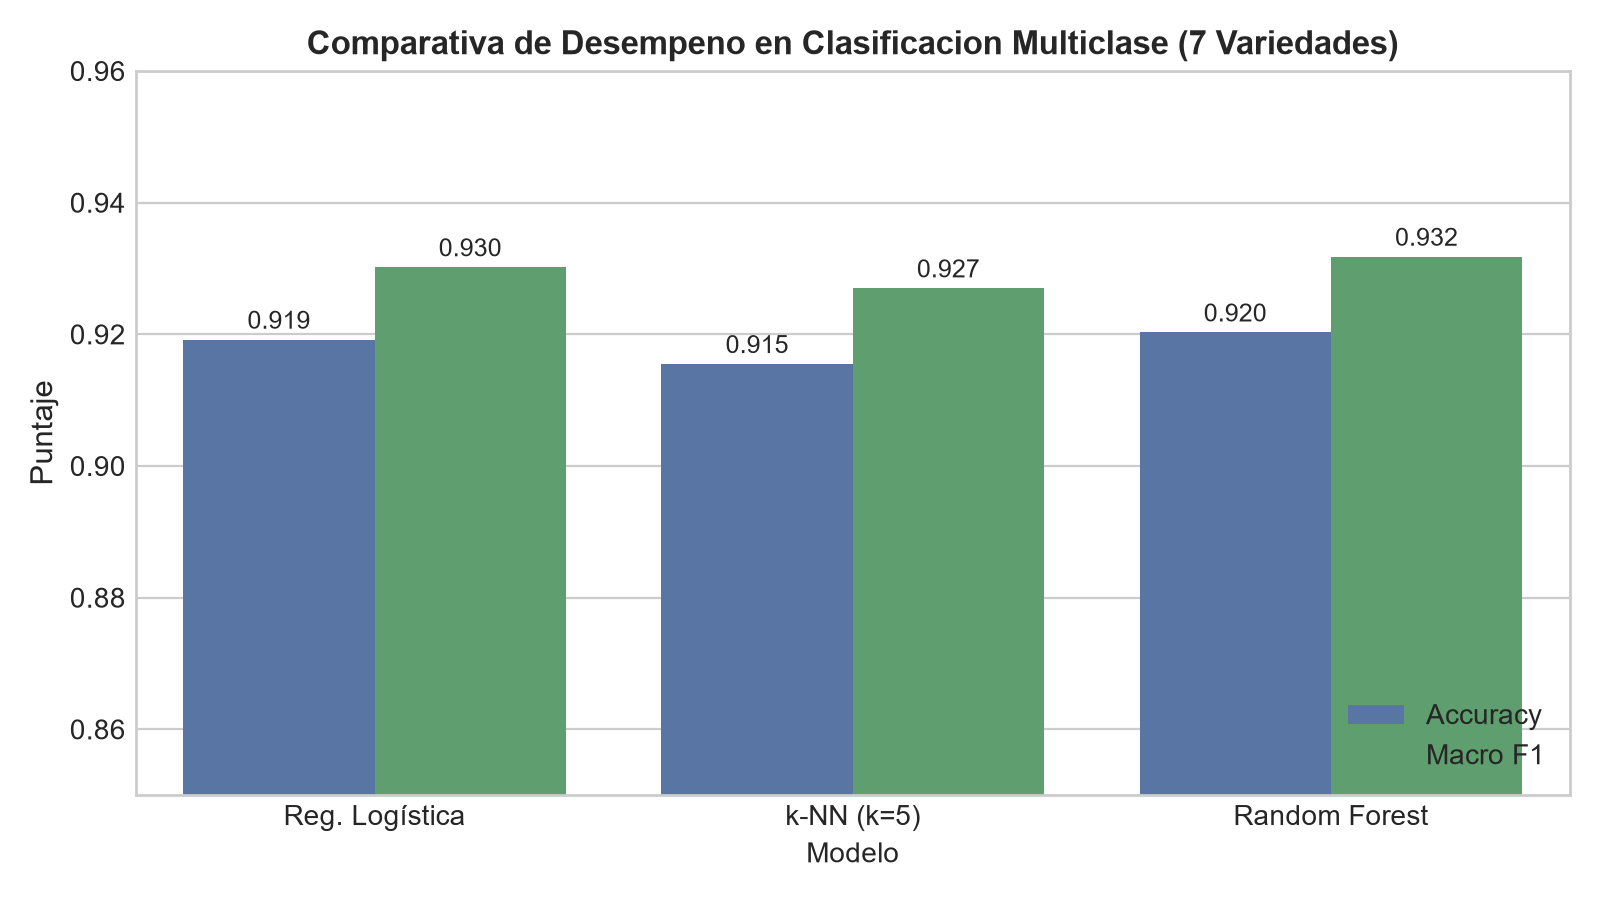
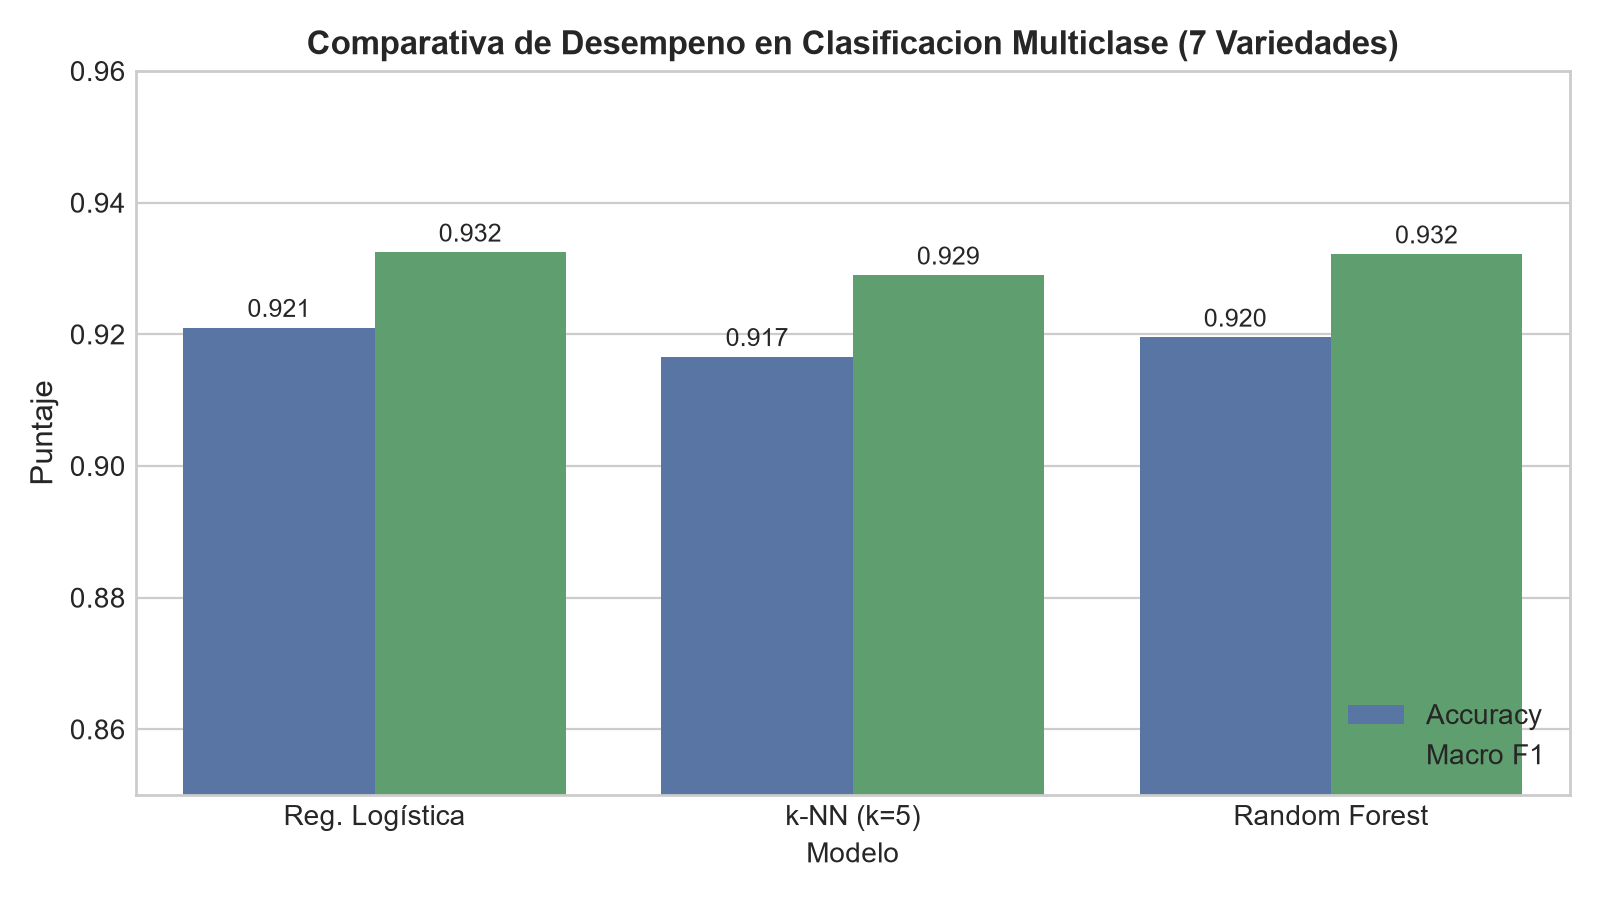
Completa dashboard integrado y metricas finales

diff --git a/dashboard/app.py b/dashboard/app.py
@@ -109,12 +109,22 @@ with tab1:
         st.dataframe(pd.DataFrame([{'Nombre original':k,'Significado en español':v} for k,v in ETIQUETAS.items()]), hide_index=True, width='stretch')
 
 with tab2:
-    st.subheader("Comparación de modelos de clasificación (70/30)")
+    st.subheader("Regresión de área (70/30)")
+    tabla_reg = pd.DataFrame(supervisado["regresion_area"]).T.reset_index(names="Modelo")
+    r1, r2 = st.columns([1.15, 1])
+    r1.plotly_chart(px.bar(tabla_reg, x="Modelo", y="R2", color="Modelo",
+                           range_y=[0.95, 1], title="R² en el 30 % reservado para prueba"), width="stretch")
+    r2.dataframe(tabla_reg.style.format({"R2":"{:.4f}", "MAE":"{:,.2f}", "RMSE":"{:,.2f}"}),
+                 hide_index=True, width="stretch")
+    mejor_reg = tabla_reg.loc[tabla_reg["R2"].idxmax()]
+    st.info(f"Random Forest obtiene R²={mejor_reg['R2']:.4f} y MAE={mejor_reg['MAE']:,.2f} píxeles. La regresión estima Area sin usar EquivDiameter, ConvexArea ni factores derivados directamente del área.")
+
+    st.subheader("Clasificación de variedades (70/30)")
     tabla_clf = pd.DataFrame(supervisado["clasificacion_multiclase"]).T.reset_index(names="Modelo")
-    fig = px.bar(tabla_clf, x="Modelo", y=["Accuracy", "Macro_F1", "Weighted_F1"],
+    fig = px.bar(tabla_clf, x="Modelo", y=["Accuracy", "Macro_Precision", "Macro_Recall", "Macro_F1"],
                  barmode="group", range_y=[0, 1], title="Métricas sobre el 30 % de prueba")
     st.plotly_chart(fig, width="stretch")
-    st.dataframe(tabla_clf.style.format({"Accuracy":"{:.2%}", "Macro_F1":"{:.2%}", "Weighted_F1":"{:.2%}"}), width="stretch")
+    st.dataframe(tabla_clf.style.format({c:"{:.2%}" for c in tabla_clf.columns if c != "Modelo"}), width="stretch")
     st.info("El 70 % de los registros se utilizó para entrenamiento y el 30 % quedó reservado para evaluación.")
     st.caption('Exactitud: proporción total de aciertos. F1 macro: promedio del F1 de las siete variedades, dando el mismo peso a cada una. F1 ponderado: considera cuántos registros tiene cada variedad.')
 
@@ -132,6 +142,11 @@ with tab3:
     a, b = st.columns(2)
     a.plotly_chart(px.line(eval_k, x="k", y="inercia", markers=True, title="Método del codo"), width="stretch")
     b.plotly_chart(px.line(eval_k, x="k", y="silhouette", markers=True, title="Coeficiente de silueta"), width="stretch")
+    perfiles = pd.DataFrame(no_supervisado["perfiles_clusters"]).T
+    perfiles.index.name = "Cluster"
+    st.subheader("Características promedio de los clusters")
+    st.dataframe(perfiles.style.format({c:"{:,.4f}" for c in perfiles.columns if c != "Registros"}), width="stretch")
+    st.info("Los clusters representan perfiles morfológicos, no variedades oficiales. Se interpretan comparando tamaño, elongación, redondez, compacidad y solidez promedio.")
     st.caption("La variable Class no participó en K-means; solo se usa después para interpretar los grupos.")
 
 with tab4:

diff --git a/src/generar_graficas.py b/src/generar_graficas.py
@@ -10,6 +10,7 @@ import pandas as pd
 import numpy as np
 import matplotlib.pyplot as plt
 import seaborn as sns
+import json
 from sklearn.model_selection import train_test_split
 from sklearn.metrics import confusion_matrix
 
@@ -78,7 +79,10 @@ cm = confusion_matrix(y_test_c, y_pred_clf, labels=clases)
 
 plt.figure(figsize=(8, 6.5))
 sns.heatmap(cm, annot=True, fmt="d", cmap="Blues", xticklabels=clases, yticklabels=clases, cbar=True)
-plt.title("Matriz de Confusion Multiclase - Random Forest (Macro F1: 93.18%)", fontsize=12, fontweight="bold")
+with open(os.path.join(OUTPUTS_DIR, "evaluacion_modelos_supervisados.json"), encoding="utf-8") as f:
+    metricas_json = json.load(f)
+rf_f1 = metricas_json["clasificacion_multiclase"]["Random_Forest_Classifier"]["Macro_F1"]
+plt.title(f"Matriz de Confusion Multiclase - Random Forest (Macro F1: {rf_f1:.2%})", fontsize=12, fontweight="bold")
 plt.xlabel("Clase Predicha", fontsize=11)
 plt.ylabel("Clase Real", fontsize=11)
 plt.tight_layout()
@@ -87,11 +91,13 @@ plt.close()
 print("3. Matriz de confusion guardada.")
 
 # 4. Grafica: Comparativa de Clasificadores
-metricas = pd.DataFrame({
-    "Modelo": ["Reg. Logística", "k-NN (k=5)", "Random Forest"],
-    "Accuracy": [0.9192, 0.9155, 0.9203],
-    "Macro F1": [0.9302, 0.9270, 0.9318]
+metricas = pd.DataFrame(metricas_json["clasificacion_multiclase"]).T.reset_index(names="Modelo")
+metricas["Modelo"] = metricas["Modelo"].replace({
+    "Regresion_Logistica": "Reg. Logística",
+    "kNN_Classifier": "k-NN (k=5)",
+    "Random_Forest_Classifier": "Random Forest",
 })
+metricas = metricas.rename(columns={"Macro_F1": "Macro F1"})[["Modelo", "Accuracy", "Macro F1"]]
 metricas_melt = metricas.melt(id_vars="Modelo", var_name="Metrica", value_name="Score")
 
 plt.figure(figsize=(8, 4.5))

diff --git a/src/modelos_supervisados.py b/src/modelos_supervisados.py
@@ -18,7 +18,8 @@ from sklearn.ensemble import RandomForestRegressor, RandomForestClassifier
 from sklearn.neighbors import KNeighborsClassifier
 from sklearn.metrics import (
     mean_squared_error, mean_absolute_error, r2_score,
-    accuracy_score, f1_score, classification_report, confusion_matrix
+    accuracy_score, f1_score, precision_score, recall_score,
+    classification_report, confusion_matrix
 )
 
 PROCESSED_DATA_PATH = os.path.join("data", "processed", "dry_beans_cleaned.csv")
@@ -149,11 +150,15 @@ def ejecutar_modelado_supervisado():
         y_pred = modelo.predict(X_test_c)
         
         acc = accuracy_score(y_test_c, y_pred)
+        macro_precision = precision_score(y_test_c, y_pred, average="macro", zero_division=0)
+        macro_recall = recall_score(y_test_c, y_pred, average="macro", zero_division=0)
         macro_f1 = f1_score(y_test_c, y_pred, average="macro")
         weighted_f1 = f1_score(y_test_c, y_pred, average="weighted")
         
         resultados_clf[nombre] = {
             "Accuracy": float(acc),
+            "Macro_Precision": float(macro_precision),
+            "Macro_Recall": float(macro_recall),
             "Macro_F1": float(macro_f1),
             "Weighted_F1": float(weighted_f1)
         }
@@ -181,6 +186,7 @@ def ejecutar_modelado_supervisado():
     reporte_supervisado = {
         "regresion_area": metricas_reg,
         "clasificacion_multiclase": resultados_clf,
+        "reportes_clasificacion_por_clase": reportes_detallados,
         "clases": clases_ordenadas,
         "matriz_confusion_mejor_modelo": {
             "modelo": mejor_clf[0],

diff --git a/src/modelos_no_supervisados.py b/src/modelos_no_supervisados.py
@@ -64,6 +64,11 @@ def ejecutar_modelado_no_supervisado():
     tabla_cruzada = pd.crosstab(df_salida["Cluster"], df_salida["Class"])
     tabla_cruzada.to_csv(os.path.join(OUTPUTS_DIR, "clusters_vs_clases.csv"))
 
+    variables_perfil = ["Area", "Perimeter", "AspectRatio", "Roundness", "Compactness", "Solidity"]
+    perfiles = df_salida.groupby("Cluster")[variables_perfil].mean().round(4)
+    perfiles.insert(0, "Registros", df_salida.groupby("Cluster").size())
+    perfiles.to_csv(os.path.join(OUTPUTS_DIR, "perfiles_clusters.csv"))
+
     sns.set_theme(style="whitegrid")
     ks = [r["k"] for r in resultados_k]
     fig, axes = plt.subplots(1, 2, figsize=(12, 4.8))
@@ -94,6 +99,13 @@ def ejecutar_modelado_no_supervisado():
         "mejor_k_segun_silhouette": int(mejor_k),
         "silhouette_mejor_k": float(max(r["silhouette"] for r in resultados_k)),
         "comparacion_externa_solo_interpretativa": {"ARI": float(ari), "NMI": float(nmi)},
+        "perfiles_clusters": {
+            str(int(cluster)): {
+                columna: (int(valor) if columna == "Registros" else float(valor))
+                for columna, valor in fila.items()
+            }
+            for cluster, fila in perfiles.iterrows()
+        },
         "nota": "Class no se utilizo para entrenar K-means; solo para interpretar los grupos obtenidos."
     }
     with open(os.path.join(OUTPUTS_DIR, "evaluacion_modelos_no_supervisados.json"), "w", encoding="utf-8") as f:

diff --git a/README.md b/README.md
@@ -85,7 +85,20 @@ El archivo original se conserva sin modificaciones en `data/raw`. Los datos cura
    - Evaluacion K-means de k=2 a k=10 mediante codo y silhouette.
    - Mejor resultado interno: k=3, silhouette=0.4203.
    - Comparacion interpretativa con `Class`: ARI=0.2964 y NMI=0.4837; la clase no participa en el entrenamiento.
-5. **Unidad V (Visualizacion y Cierre - 15%):** Dashboard ejecutivo funcional en Streamlit y dashboard terminado en Power BI. El informe de Power BI usa una sola tabla analítica, dos páginas, 19 visuales, 9 medidas DAX y filtros interactivos; el modelo estrella permanece documentado por separado en SQL Server y SQLite.
+5. **Unidad V (Visualizacion y Cierre - 15%):** Dashboard integrado y verificado en Streamlit con indicadores, análisis descriptivo, regresión, clasificación, clustering, PCA y trazabilidad. Power BI funciona como complemento descriptivo con una sola tabla analítica, dos páginas, 19 visuales, 9 medidas DAX y filtros interactivos; el modelo estrella permanece documentado por separado en SQL Server y SQLite.
+
+## Conclusiones y recomendaciones
+
+### Conclusiones
+
+1. Las mediciones morfológicas permiten clasificar las siete variedades con resultados consistentes. La regresión logística alcanzó 92.10% de exactitud y 93.24% de Macro F1 sobre el 30% reservado para prueba.
+2. Random Forest estimó `Area` con `R² = 0.9996` y un error absoluto medio de 213.23 píxeles, sin utilizar variables que revelan el área mediante una fórmula directa.
+3. K-Means encontró tres perfiles morfológicos con Silhouette de 0.4203. Los clusters separan principalmente granos pequeños y compactos, granos intermedios más alargados y un grupo reducido de granos muy grandes. Cuatro componentes PCA conservaron 95.00% de la varianza.
+
+### Recomendaciones
+
+1. Utilizar el clasificador como apoyo para una primera identificación automática y mantener revisión humana en variedades con mayor confusión, especialmente `SIRA` y `DERMASON`.
+2. Incorporar nuevas muestras tomadas con condiciones de iluminación y captura diferentes antes de usar el modelo fuera del entorno del dataset. Esta validación permitirá comprobar su capacidad de generalización.
 
 ---
 
